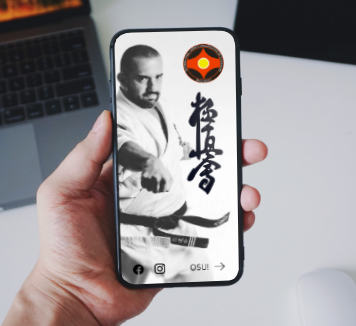
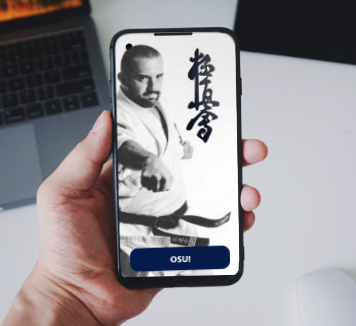
Update 20230111
New Karate App Page and minor fixes

diff --git a/02_karate_app.html b/02_karate_app.html
@@ -22,7 +22,7 @@
 
 							<!-- Logo -->
 								<a href="index.html" class="logo">
-									<span class="symbol"><img src="images/icon_dude.svg" alt="" /></span><span class="title">Contact me</span>
+									<span class="symbol"><img src="images/icon_dude.svg" alt="" /></span><span class="title">Karate Kyokushin App</span>
 								</a>
 
 							<!-- Nav -->
@@ -50,15 +50,21 @@
 				<!-- Main -->
 					<div id="main">
 						<div class="inner">
-							<h1>Time for a coffee then?</h1>
-                            <p><span class="image left"><img src="images/pic25.jpg" alt="" /></span>So, at this point, you may be wondering how am I going to be of service. What I can assure you, is that a good conversation is always something, well, good. Whether to meet new people, make connections to expand our network or to share how enthusiastic I am about the future of virtual and augmented reality and the gaming industry, I am available for a talk, small or otherwise. </br>My friends say I have a tendency to talk too much, but that is only true when the conversation and the people are interesting which, in my experience, it's almost every time.</p>
-                            <div class="col-6 col-12-medium">
-								<!-- <h3>How can you find me?</h3> -->
-								<ul class="alt">
-                                    <li>I'm on<a href="https://www.linkedin.com/in/nevileruas/"> LinkedIn.</a></li>
-                                    <li>You can <a href="mailto:nevilers32@gmail.com">e-mail</a> me.</li>
-                                    <li>And there is <a href="https://nev32.itch.io/">Itch.io</a> and <a href="https://github.com/Nev32">GitHub</a></li>
-                                </ul>
+							<h1>The Kyokushin Karate Fitness App</h1>
+                            <span class="image main"><img src="images/pic26.jpg" alt="" /></span>
+                            <p>One of my hobbies is Karate, but just for the sake of practicality, I decided that I wanted to do the hardest, most intense and painfull of them all, so if I ever needed, it would be put to good practice to protect my family and I. So, as a part of that hobbie, I put myself into making an app to use as a reference for the many techniques names, rules and other information that would help me to progress in the martial art.</p>
+							<blockquote>"One must try everyday, to expand one's limits." -Mas Oyama</blockquote>
+                            <p>I brought the idea to my Sensei, how loved the idea, as I propose to make the app available for free for everyone. After a few conversations about what the app should look like or what it should do to serve as a training tool, we decided that we would make a fitness app, with training sections available even to a person who never have contact with the art.</p>
+                            <span class="image main"><img src="images/pic27.jpg" alt="" /></span>
+							<p>I am making the app using Figma, where I design and prototype, with Affinity Photo as my image editor of choice. Some files I put through the InkScape workflow for my SVGs and vector images. In the future, the app is going to propper development, I am going with Unity for we may use 3D karatecas to show the techniques, but that may change. We may do it with Python and Flet, or even Android Studio. Time will tell. =P</p>
+							<div class="col-6 col-12-medium">
+								<h3>What I am using to make it happen:</h3>
+								<ul>
+									<li>Unity and C# (I may change to Python & Flet or Android Studio)</li>
+									<li>Figma</li>
+									<li>Affinity Photo</li>
+									<li>InkScape</li>
+								</ul>
 							</div>
 						</div>
 					</div>

diff --git a/archviz_01.html b/archviz_01.html
@@ -118,8 +118,8 @@
                                     <span class="dot" onclick="currentSlide(7)"></span>
                                 </div>    
 							<p></p>
-                            <p>Today, planning is imperative to save money, time and a whole lot of peace of mind. Previewing your project not only can save you from the anxiety that comes from guessing how it would look like, but also allow you to experiemnt the ambient before any brick is bought. Colors, composition and finishes can be tested, reviewed and changed as quickly as sendind an e-mail, with minimal cost involved, if any.</p>
-                            <p>I am able to deliver such solution using tools like Blender and Affinity Photo. I can deliver animations and walkthroughs, static renders and presentations and, if your are willing to explore the next step in archviz, I am able to deliver an interactive, fully explorable 3D experience using Unity Game engine.</P>
+                            <p>Today, planning is imperative to save time, money and a whole lot of peace of mind. Previewing your project not only can save you from the anxiety that comes from guessing how it would look like, but also allow you to experiment the room before any brick is bought. Colors, composition and finishes can be tested, reviewed and changed as quickly as sendind an e-mail, with minimal cost involved, if any.</p>
+                            <p>I am able to deliver such solution using tools like Blender, Affinity Photo and other tools. I can deliver animations, walkthroughs, renders, presentations and, if your are willing to explore the next step in archviz, I am able to deliver an interactive, fully explorable 3D experience using Unity Game engine.</P>
 						</div>
 					</div>
 

diff --git a/index.html b/index.html
@@ -70,7 +70,7 @@
 									<span class="image">
 										<img src="images/pic02.jpg" alt="" />
 									</span>
-									<a href="#">
+									<a href="02_karate_app.html">
 										<h2>Karate App</h2>
 										<div class="content">
 											<p>Android app being developed for Kyokushin Karate pratictioners and enthusiasts.</p>
